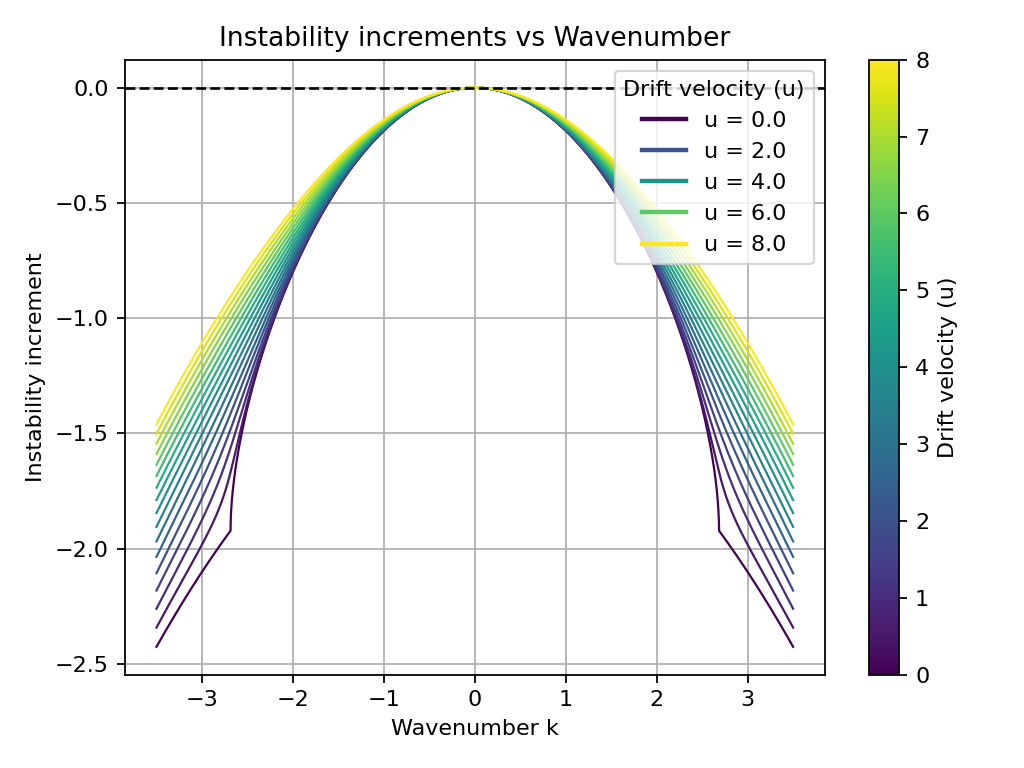
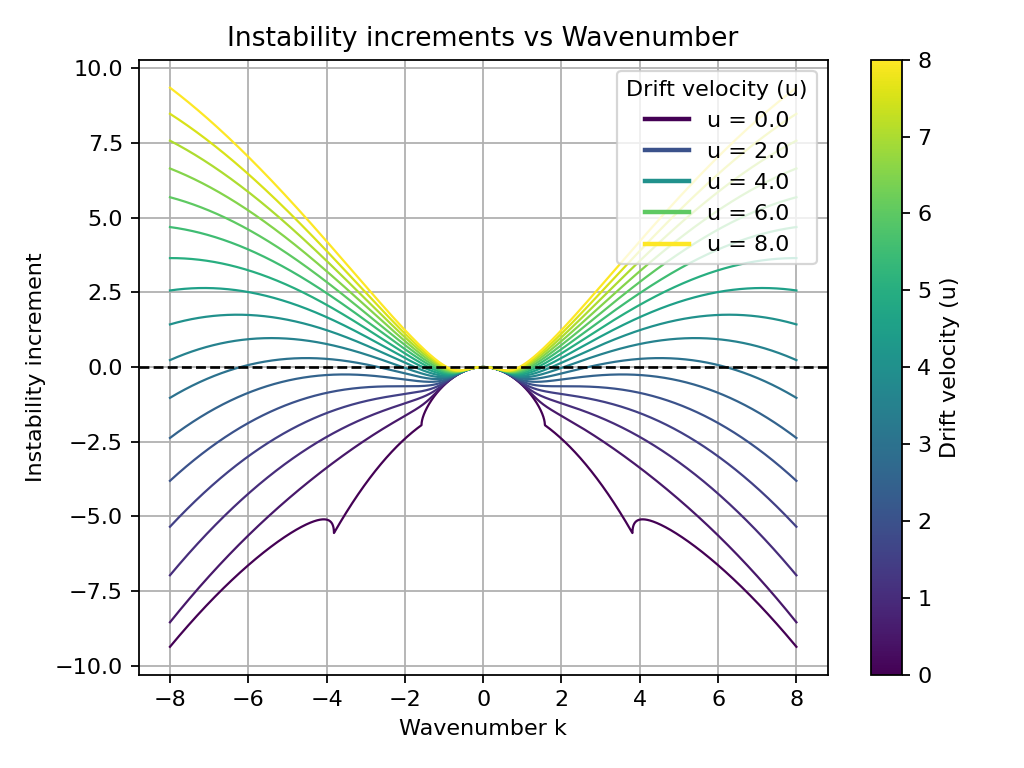
Fixed increment: Γ̃ = Γ + (D_p − D_n)k²

diff --git a/linear instability increment/linear_instability_increment.py b/linear instability increment/linear_instability_increment.py
@@ -7,8 +7,8 @@ eta_n = 0.5
 n = 0.2
 w = 5.0
 gamma0 = 2.5
-kmin = -3.5
-kmax = 3.5
+kmin = -8
+kmax = 8
 N = 20000
 Lambda = -(1 / w + 1 / n) * np.exp(-n / w)
 fig, ax = plt.subplots()
@@ -33,10 +33,12 @@ for u in u_values:
         Gamma_n = -(gamma / w)
         Lambda = (Gamma_n - gamma / n) * p
 
-        Delta = (gamma + 1j * k * Pp) ** 2 + 4j * k * Lambda - 4 * k**2 * Pn
+        # Fixed: use G_tilde with diffusion and subtract Dn*k^2
+        G_tilde = gamma + (eta_p - eta_n) * k**2
+        Delta = (G_tilde + 1j * k * Pp) ** 2 + 4j * k * Lambda - 4 * k**2 * Pn
 
-        omega1[i1] = (-1j * gamma + k * Pp + 1j * np.sqrt(Delta)) / 2 - 1j * eta_p * k**2
-        omega2[i1] = (-1j * gamma + k * Pp - 1j * np.sqrt(Delta)) / 2 - 1j * eta_p * k**2
+        omega1[i1] = (-1j * G_tilde + k * Pp + 1j * np.sqrt(Delta)) / 2 - 1j * eta_n * k**2
+        omega2[i1] = (-1j * G_tilde + k * Pp - 1j * np.sqrt(Delta)) / 2 - 1j * eta_n * k**2
 
     # Highlight u_star and use colormap for other values
     lw = 2.5 if np.isclose(u, u_star) else 1.0
